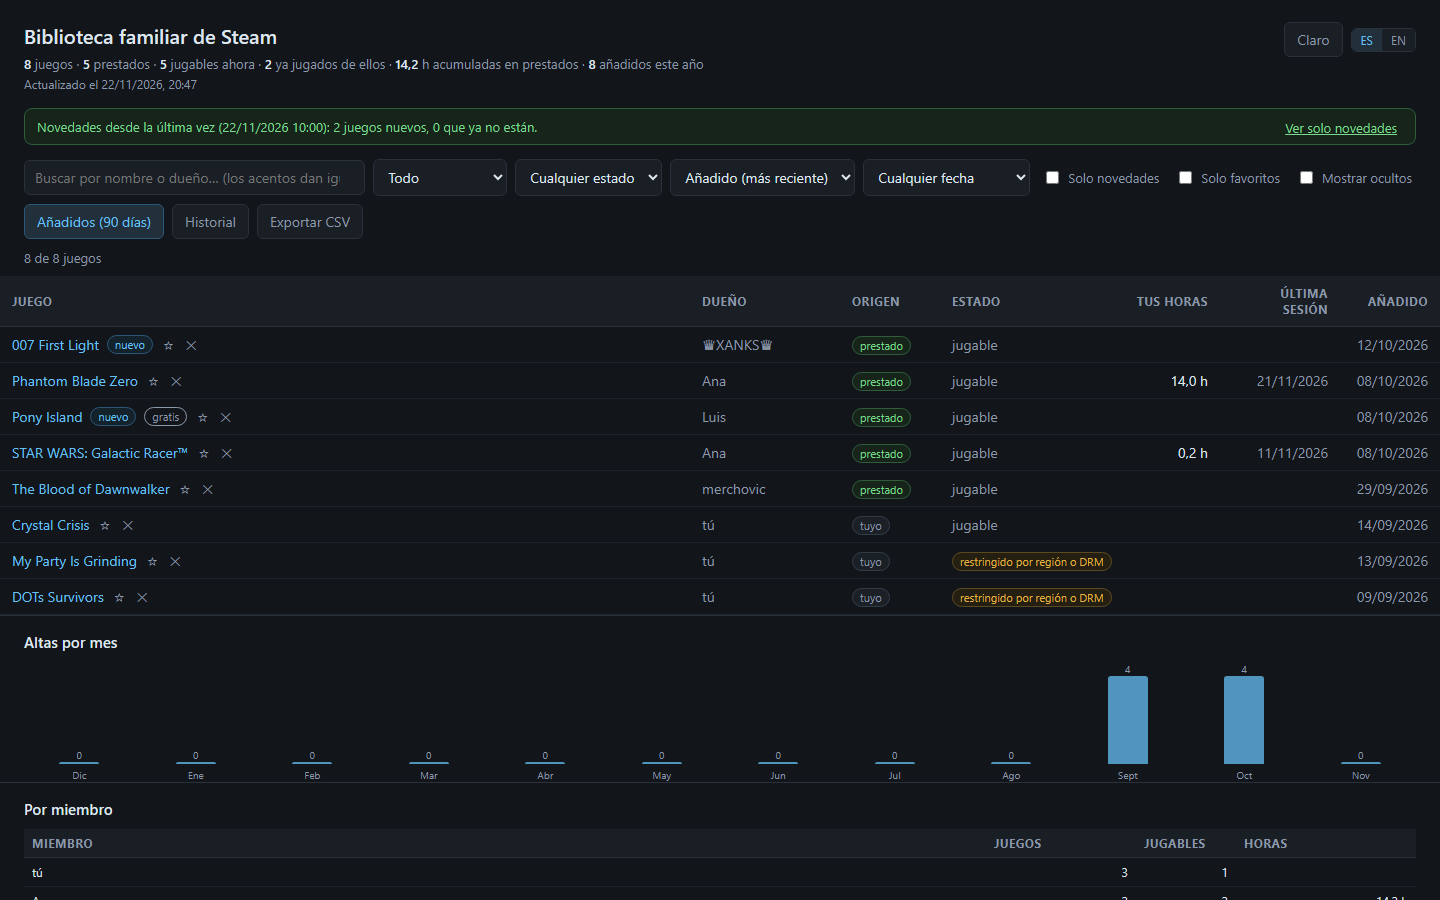
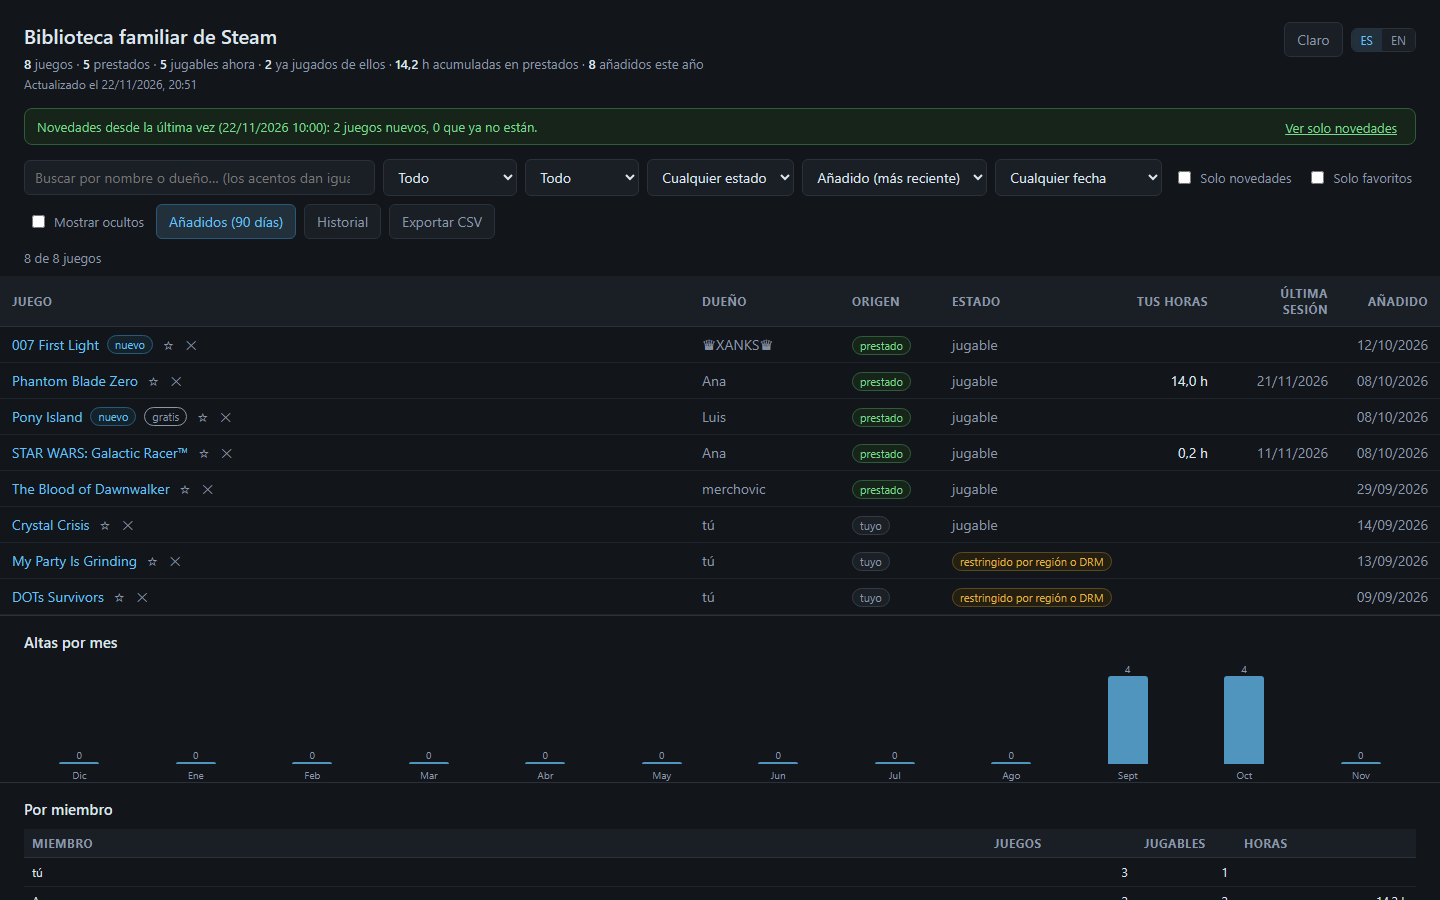
Añade filtro por dueño en el panel
Desplegable con los dueños del snapshot, ordenado por nombre, persistente y
en los dos idiomas.

Changed region(s): [[0.375, 0.1867, 0.9688, 0.2178], [0.0, 0.2178, 0.25, 0.28], [0.2812, 0.1867, 0.3438, 0.28]]

diff --git a/steam_families.py b/steam_families.py
@@ -728,6 +728,9 @@ html[data-tema="claro"] #version { color:#8b98a8; }
     <option value="family" data-t="soloPrestados">Solo prestados</option>
     <option value="own" data-t="soloMios">Solo míos</option>
   </select>
+  <select id="duenoFiltro" data-ta="dueno" aria-label="Dueño">
+    <option value="todo" data-t="todo">Todo</option>
+  </select>
   <select id="estado" aria-label="Estado" data-ta="estado">
     <option value="todo" data-t="cualquierEstado">Cualquier estado</option>
     <option value="jugable" data-t="jugables">Jugables ahora</option>
@@ -1014,6 +1017,31 @@ function preparaBusqueda() {
   });
 }
 
+function pintaDuenos() {
+  const sel = $("duenoFiltro");
+  const actual = sel.value || "todo";
+  const hashes = new Set();
+  DATOS.forEach(d => (d.o || []).forEach(h => hashes.add(h)));
+  const opciones = [...hashes].map(h => {
+    let nombre = NOMBRES[h] || h;
+    nombre = nombre === "tú" ? T("tu")
+      : nombre.replace(/^Miembro (\d+)$/, (todo, n) => IDIOMA === "en" ? "Member " + n : todo);
+    return {h, nombre};
+  }).sort((a, b) => compara(a.nombre, b.nombre));
+  sel.replaceChildren();
+  const todo = document.createElement("option");
+  todo.value = "todo";
+  todo.textContent = T("todo");
+  sel.appendChild(todo);
+  opciones.forEach(o => {
+    const op = document.createElement("option");
+    op.value = o.h;
+    op.textContent = o.nombre;
+    sel.appendChild(op);
+  });
+  sel.value = [...sel.options].some(o => o.value === actual) ? actual : "todo";
+}
+
 const MOTIVOS = {
   "excluido por el dueno": {es: "excluido por el dueño", en: "excluded by the owner"},
   "no se puede compartir": {es: "no se puede compartir", en: "can't be shared"},
@@ -1075,6 +1103,10 @@ function cargaFiltros() {
     if (typeof g.soloNuevos === "boolean") $("soloNuevos").checked = g.soloNuevos;
     if (typeof g.soloFav === "boolean") $("soloFav").checked = g.soloFav;
     if (typeof g.verOcultos === "boolean") $("verOcultos").checked = g.verOcultos;
+    if (typeof g.dueno === "string" &&
+        [...$("duenoFiltro").options].some(o => o.value === g.dueno)) {
+      $("duenoFiltro").value = g.dueno;
+    }
     if (typeof g.q === "string") $("q").value = g.q.slice(0, 200);
   } catch (e) {}
 }
@@ -1089,6 +1121,7 @@ function guardaFiltros() {
       soloNuevos: $("soloNuevos").checked,
       soloFav: $("soloFav").checked,
       verOcultos: $("verOcultos").checked,
+      dueno: $("duenoFiltro").value,
       q: $("q").value
     }));
   } catch (e) {}
@@ -1159,13 +1192,14 @@ function pintaAviso() {
 function pinta() {
   const q = plano($("q").value.trim());
   const origen = $("origen").value;
+  const dueno = $("duenoFiltro").value;
   const estado = $("estado").value;
   const orden = $("orden").value;
   const antiguedad = $("antiguedad").value;
   const soloNuevos = $("soloNuevos").checked;
   const soloFav = $("soloFav").checked;
   const verOcultos = $("verOcultos").checked;
-  const filtrando = !!q || origen !== "todo" || estado !== "todo" ||
+  const filtrando = !!q || origen !== "todo" || dueno !== "todo" || estado !== "todo" ||
     antiguedad !== "todo" || soloNuevos || soloFav || verOcultos || !!ORDEN_CABECERA;
   $("limpiar").hidden = !filtrando;
 
@@ -1177,6 +1211,7 @@ function pinta() {
   let lista = DATOS.filter(d => {
     if (q && !d.b.includes(q)) return false;
     if (origen !== "todo" && d.s !== origen) return false;
+    if (dueno !== "todo" && !(d.o || []).includes(dueno)) return false;
     if (soloNuevos && d.w !== "nuevo") return false;
     if (soloFav && !FAVORITOS.has(d.a)) return false;
     if (!verOcultos && OCULTOS.has(d.a)) return false;
@@ -1559,6 +1594,7 @@ function aplicaIdioma() {
   pintaMiembros();
   pintaHistorial();
   aplicaTema();
+  pintaDuenos();
   preparaBusqueda();
   pinta();
 }
@@ -1574,7 +1610,7 @@ $("tema").addEventListener("click", () => {
   aplicaTema();
 });
 
-["origen", "estado", "antiguedad", "soloNuevos", "soloFav", "verOcultos"].forEach(id => $(id).addEventListener("input", pinta));
+["origen", "duenoFiltro", "estado", "antiguedad", "soloNuevos", "soloFav", "verOcultos"].forEach(id => $(id).addEventListener("input", pinta));
 $("orden").addEventListener("input", () => {
   ORDEN_CABECERA = null;
   pinta();
@@ -1635,6 +1671,7 @@ $("verHistorial").addEventListener("click", () => {
 $("exportar").addEventListener("click", exportaCsv);
 $("exportarHistorial").addEventListener("click", exportaHistorial);
 ["hq", "hecho", "hdesde", "hhasta"].forEach(id => $(id).addEventListener("input", pintaHistorial));
+pintaDuenos();
 cargaFiltros();
 aplicaIdioma();
 </script>

diff --git a/pruebas/test_interfaz.py b/pruebas/test_interfaz.py
@@ -272,6 +272,22 @@ class PruebaInterfaz(unittest.TestCase):
         self.assertIn("Viejo", texto)
         self.assertIn("99", texto)
 
+    def test_filtro_por_dueno(self):
+        pagina = self.pagina("/panel.html")
+        filas = pagina.locator("#cuerpo tr")
+        anna = sfl.etiqueta("222")
+        yo = sfl.etiqueta("111")
+
+        pagina.select_option("#duenoFiltro", anna)
+        self.assertEqual(filas.count(), 2)
+        pagina.select_option("#duenoFiltro", yo)
+        self.assertEqual(filas.count(), 1)
+        self.assertIn("Alfa", pagina.inner_text("#cuerpo"))
+
+        pagina.reload()
+        self.assertEqual(pagina.input_value("#duenoFiltro"), yo)
+        self.assertEqual(filas.count(), 1)
+
 
 if __name__ == "__main__":
     unittest.main()

diff --git a/README.md b/README.md
@@ -108,7 +108,7 @@ Los tres endpoints de familia están sin documentar: funcionan hoy y pueden camb
 python -m unittest discover -s pruebas -v
 ```
 
-110 pruebas sin red, más 14 de interfaz con Playwright (se saltan si no está instalado; hacen falta `pip install -r requirements-dev.txt` y `playwright install chromium`). Tres de las unitarias son solo de Windows y se saltan en otros sistemas. GitHub Actions ejecuta además la interfaz completa en Ubuntu 22.04 con Python 3.8, Ubuntu latest con 3.12 y Windows con 3.9 y 3.12, incluido el lanzador `.cmd`, y las pruebas de navegador en Chromium. La cobertura de `steam_families.py` se mide en el CI con un mínimo del 85 %.
+110 pruebas sin red, más 15 de interfaz con Playwright (se saltan si no está instalado; hacen falta `pip install -r requirements-dev.txt` y `playwright install chromium`). Tres de las unitarias son solo de Windows y se saltan en otros sistemas. GitHub Actions ejecuta además la interfaz completa en Ubuntu 22.04 con Python 3.8, Ubuntu latest con 3.12 y Windows con 3.9 y 3.12, incluido el lanzador `.cmd`, y las pruebas de navegador en Chromium. La cobertura de `steam_families.py` se mide en el CI con un mínimo del 85 %.
 
 ## Créditos
 
@@ -220,7 +220,7 @@ The three family endpoints are undocumented: they work today and may change tomo
 python -m unittest discover -s pruebas -v
 ```
 
-110 tests with no network, plus 14 browser tests with Playwright (skipped if it is not installed; they need `pip install -r requirements-dev.txt` and `playwright install chromium`). Three of the unit tests are Windows-only and are skipped elsewhere. GitHub Actions also runs the full interface on Ubuntu 22.04 with Python 3.8, Ubuntu latest with 3.12, and Windows with 3.9 and 3.12, including the `.cmd` launcher, and the browser tests on Chromium. Coverage of `steam_families.py` is measured in CI with an 85 % floor.
+110 tests with no network, plus 15 browser tests with Playwright (skipped if it is not installed; they need `pip install -r requirements-dev.txt` and `playwright install chromium`). Three of the unit tests are Windows-only and are skipped elsewhere. GitHub Actions also runs the full interface on Ubuntu 22.04 with Python 3.8, Ubuntu latest with 3.12, and Windows with 3.9 and 3.12, including the `.cmd` launcher, and the browser tests on Chromium. Coverage of `steam_families.py` is measured in CI with an 85 % floor.
 
 ## Credits
 
